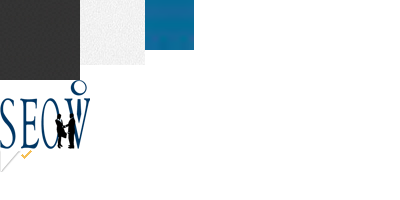
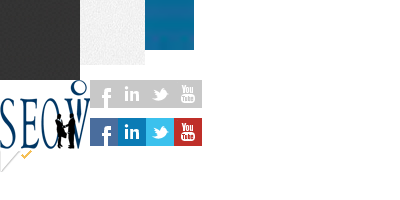
initial footer

Changed region(s): [[0.21, 0.57, 0.51, 0.75], [0.21, 0.39, 0.51, 0.54]]

diff --git a/sass/_footer.scss b/sass/_footer.scss
@@ -1,0 +1,65 @@
+.site-footer {
+	.wrapper {
+		background-color: #262626;
+		color: #fff;
+		margin: 1.5em 1em;
+	}
+	.inner-wrap {
+		@extend %clearfix;
+		width: 90%;
+		margin: 0 auto;
+		padding: 2em 0;
+	}
+	.rights,
+	.credits {
+		text-align: center;
+	}
+	.site-info {
+		margin-bottom: 1em;
+	}
+}
+.contact-info {
+	float: left;
+	width: 50%;
+	h3 {
+		margin-bottom: 1em;
+	}
+	p {
+		margin-bottom: 0.5em;
+	}
+	a {
+		color: $gold;
+		&:hover {
+			color: darken($gold, 20%);
+		}
+	}
+}
+.social-media {
+	h3 {
+		margin-bottom: 1em;
+	}
+	float: left;
+	width: 50%;
+	a {
+		@extend %ir;
+		background: url('../images/assets.png') -90px -80px;
+		display: block;
+		float: left;
+		margin-right: 0.625em;
+		width: 28px;
+		height: 28px;
+		@include transition(all 0.2s);
+		&:hover {
+			background-position-y: -118px;
+		}
+	}
+	.linkedin {
+		background-position-x: -118px;
+	}
+	.twitter {
+		background-position-x: -146px;
+	}
+	.youtube {
+		background-position-x: -174px;
+	}
+}

diff --git a/sass/_patterns.scss b/sass/_patterns.scss
@@ -2,19 +2,18 @@
  * Image replacement
  */
 
-.ir {
+%ir {
 	background-color: transparent;
 	border: 0;
 	overflow: hidden;
 	/* IE 6/7 fallback */
 	*text-indent: -9999px;
-}
-
-.ir:before {
-	content: "";
-	display: block;
-	width: 0;
-	height: 150%;
+	&:before {
+		content: "";
+		display: block;
+		width: 0;
+		height: 150%;
+	}
 }
 
 /*

diff --git a/sass/_global.scss b/sass/_global.scss
@@ -1,7 +1,8 @@
-body {
+.site {
 	background: url(../images/background-dark.jpg);
 }
 
 .content-area {
 	background: url(../images/background-light.jpg);
+	margin: 0 1em;
 }

diff --git a/sass/_header.scss b/sass/_header.scss
@@ -21,6 +21,7 @@
 
 .site-title {
 	a {
+		@extend %ir;
 		background: url(../images/assets.png) 0 -80px;
 		display: block;
 		width: 90px;

diff --git a/sass/main.scss b/sass/main.scss
@@ -9,5 +9,6 @@
 
 @import "_components";
 @import "_header";
+@import "_footer";
 
 @import "_home";

diff --git a/footer.php b/footer.php
@@ -11,11 +11,25 @@
 	</div><!-- #main -->
 
 	<footer id="colophon" class="site-footer" role="contentinfo">
+		<div class="wrapper">
+			<div class="inner-wrap">
+				<div class="contact-info">
+					<h3>SEO Viet Nam</h3>
+					<p>Ho Chi Minh City, Vietnam</p>
+					<p><a href="mailto:info@seo-vietnam.org">info@seo-vietnam.org</a></p>
+				</div><!-- .contact-info -->
+				<div class="social-media">
+					<h3>Follow Us</h3>
+					<a class="facebook" href="http://facebook.com/seovie">Facebook</a>
+					<a class="linkedin" href="http://www.linkedin.com/pub/seo-iiv/28/376/b1">LinkedIn</a>
+					<a class="twitter" href="http://twitter.com/seoiiv">Twitter</a>
+					<a class="youtube" href="http://www.youtube.com/user/seovietnam2012">Youtube</a>
+				</div><!-- .social-media -->
+			</div><!-- .inner-wrap -->
+		</div><!-- .wrapper -->
 		<div class="site-info">
-			<?php do_action( 'seo_vietnam_credits' ); ?>
-			<a href="http://wordpress.org/" title="<?php esc_attr_e( 'A Semantic Personal Publishing Platform', 'seo-vietnam' ); ?>" rel="generator"><?php printf( __( 'Proudly powered by %s', 'seo-vietnam' ), 'WordPress' ); ?></a>
-
-			
+			<div class="rights">Copyright <?php echo date("Y");?> by SEO-Vietnam. All rights reserved.</div>
+			<div class="credits">Developed by <a href="http://tridnguyen.com">Tri Nguyen</a>. Powered by <a href="http://wordpress.org/">WordPress.</a>
 		</div><!-- .site-info -->
 	</footer><!-- #colophon -->
 </div><!-- #page -->

diff --git a/header.php b/header.php
@@ -24,7 +24,7 @@
 	<header id="masthead" class="site-header" role="banner">
 		<div class="site-branding">
 			<h1 class="site-title">
-				<a class="ir" href="<?php echo esc_url( home_url( '/' ) ); ?>" title="<?php echo esc_attr( get_bloginfo( 'name', 'display' ) ); ?>" rel="home">
+				<a href="<?php echo esc_url( home_url( '/' ) ); ?>" title="<?php echo esc_attr( get_bloginfo( 'name', 'display' ) ); ?>" rel="home">
 					<?php bloginfo( 'name' ); ?>
 				</a>
 			</h1>
